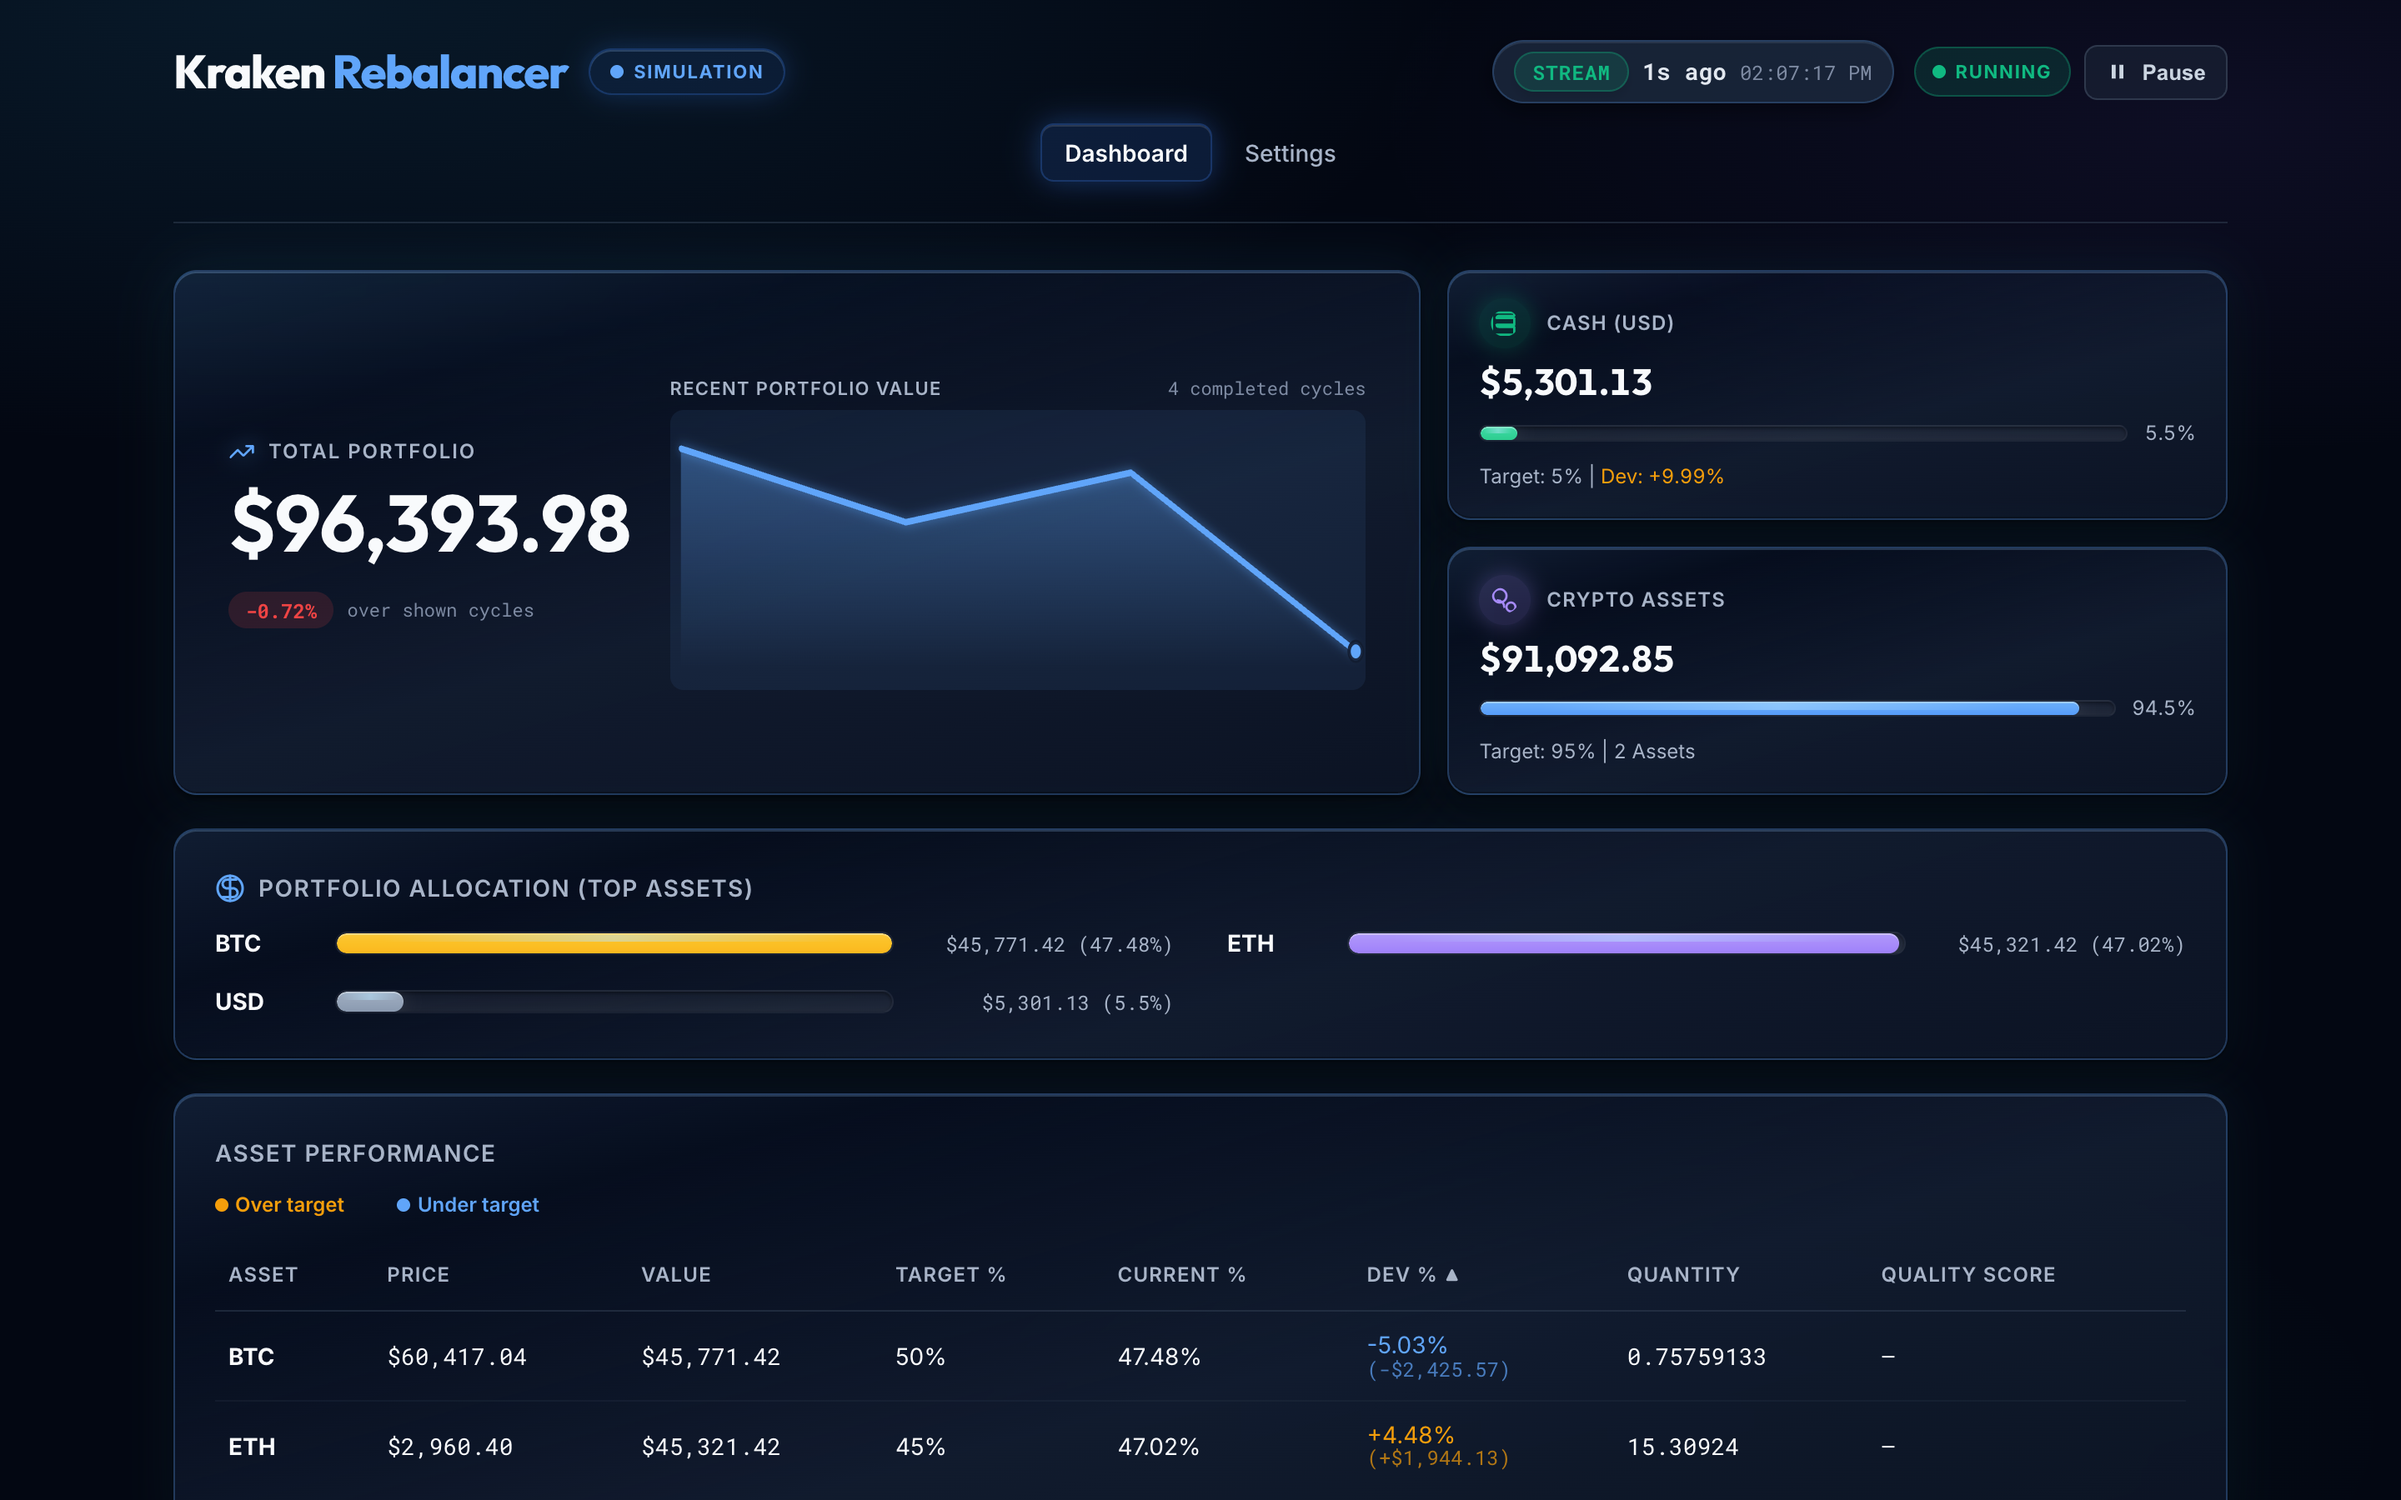
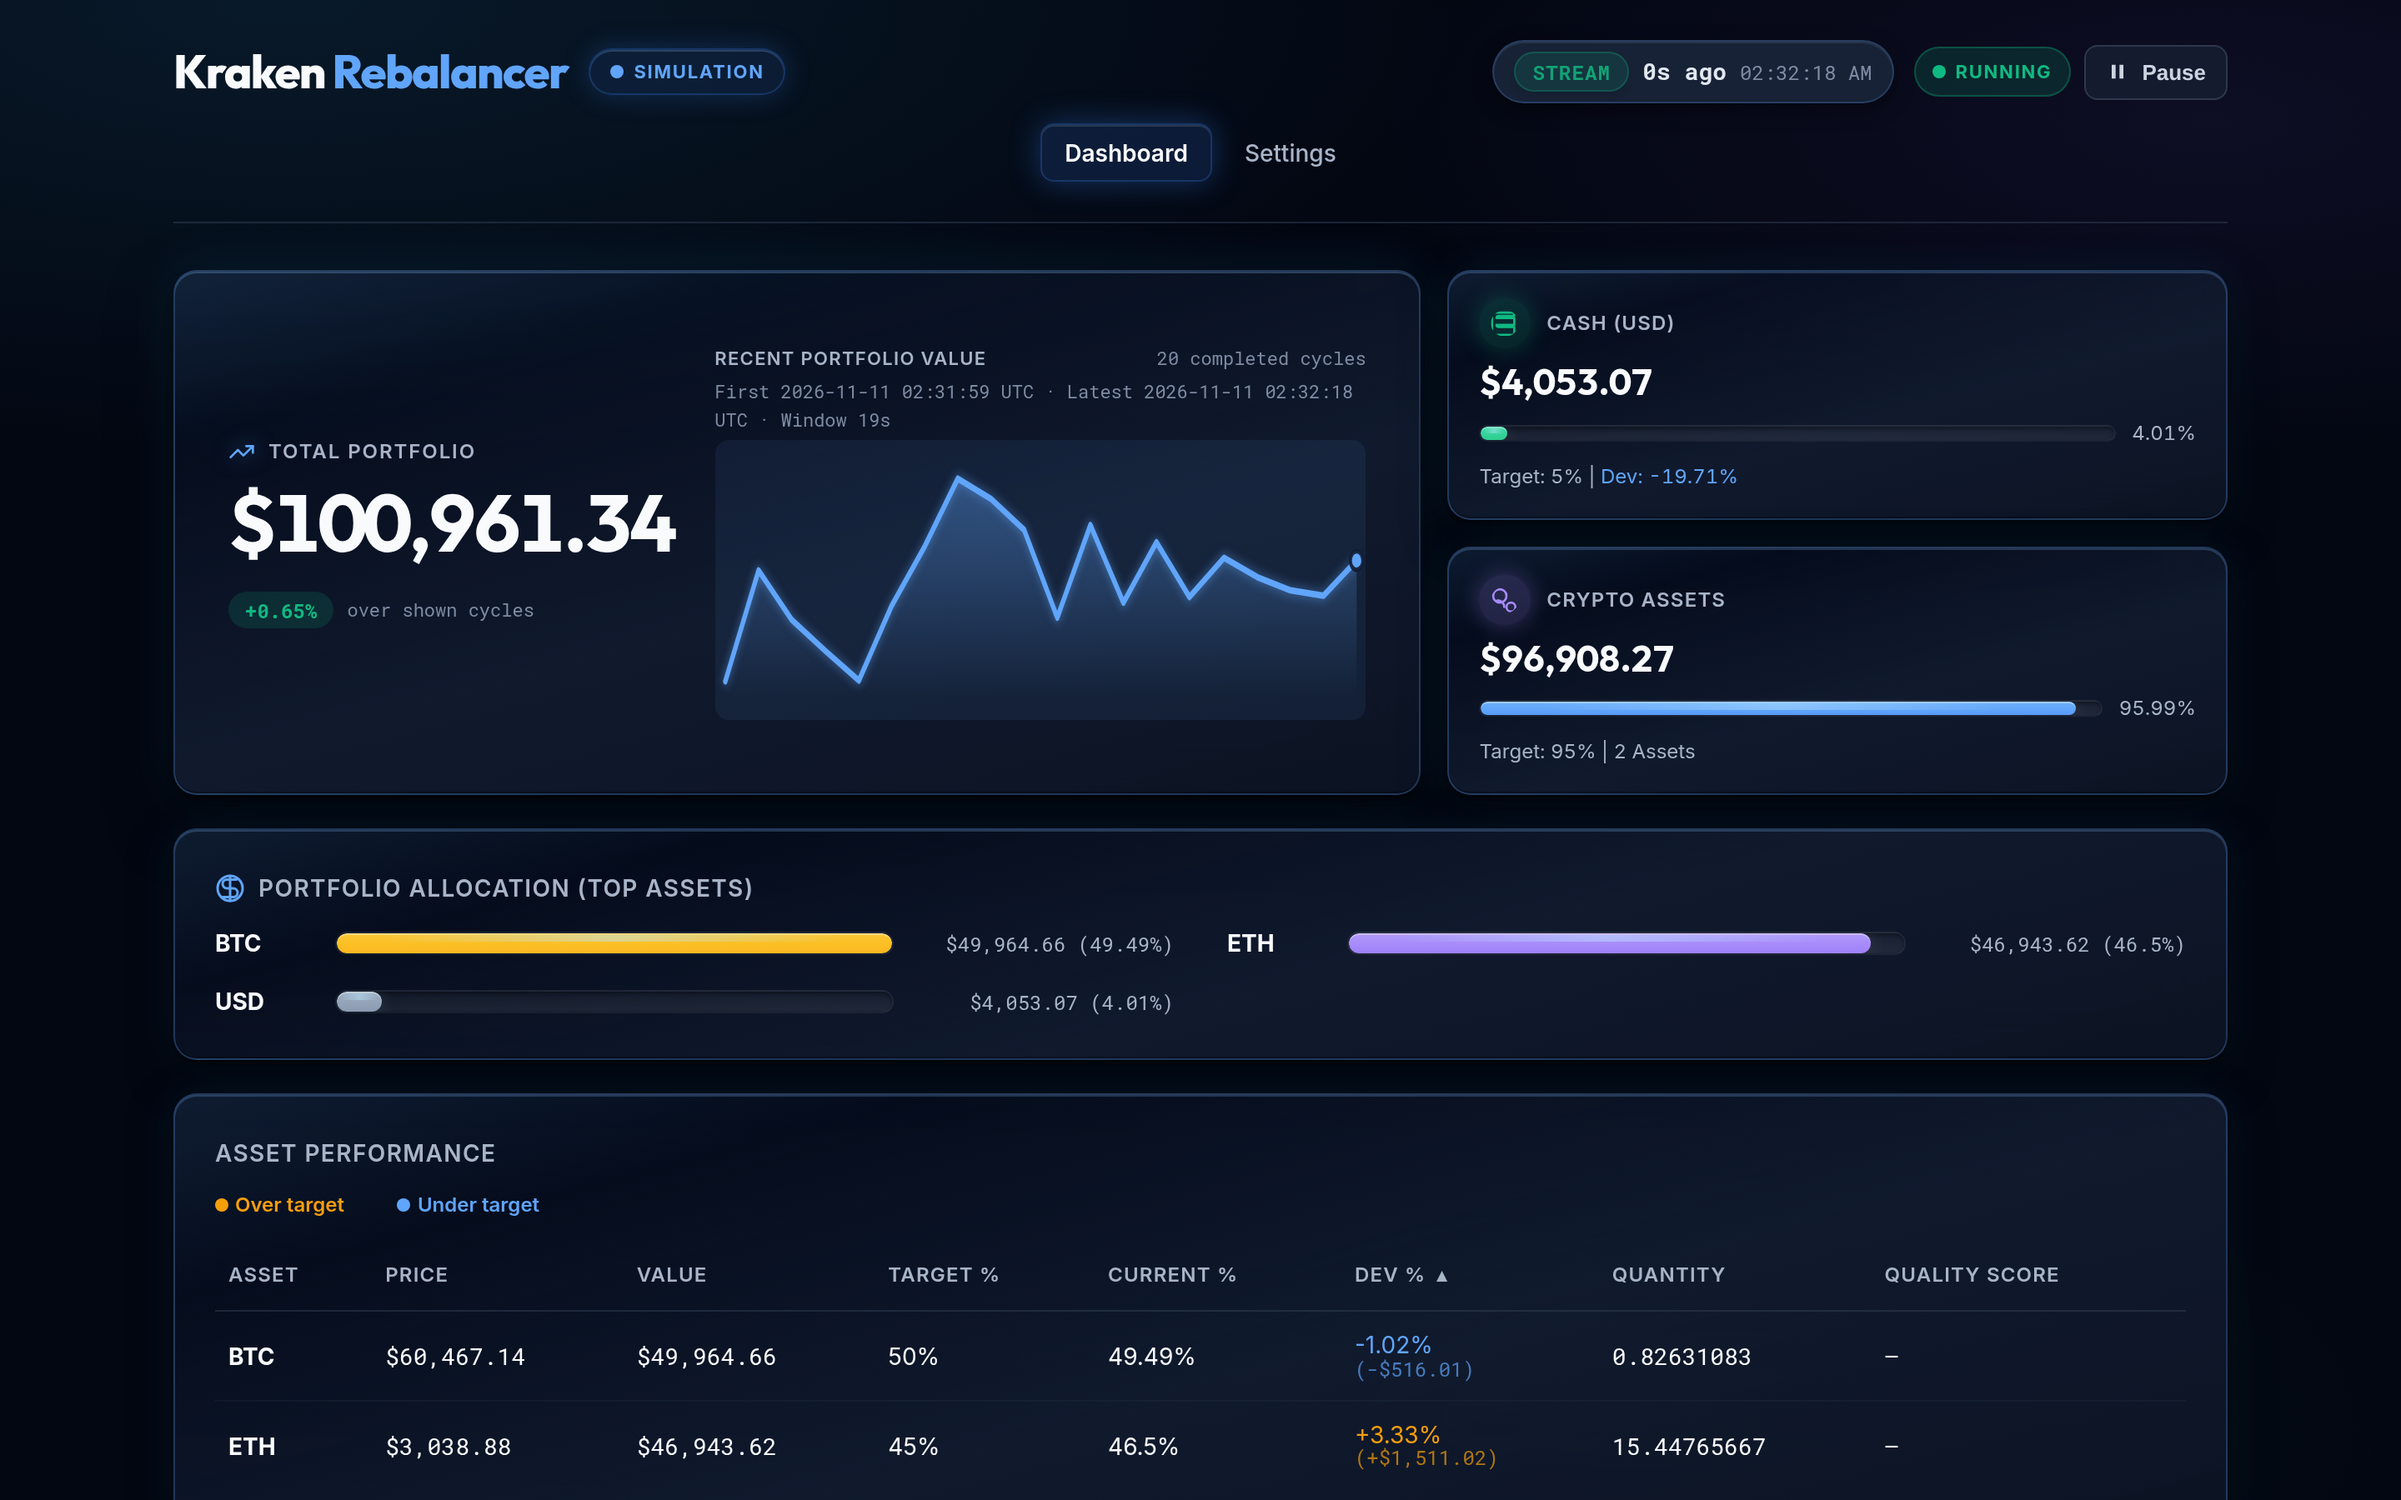
feat: show elapsed time in the portfolio trend

diff --git a/backend/src/main/kotlin/com/gemini/krakenbot/view/component/OverviewGridComponent.kt b/backend/src/main/kotlin/com/gemini/krakenbot/view/component/OverviewGridComponent.kt
@@ -18,6 +18,9 @@ import kotlinx.html.style
 import kotlinx.html.unsafe
 import java.math.BigDecimal
 import java.math.RoundingMode
+import java.time.Duration
+import java.time.ZoneOffset
+import java.time.format.DateTimeFormatter
 import java.util.Locale
 
 class OverviewGridComponent {
@@ -89,6 +92,19 @@ class OverviewGridComponent {
                     +"${recentSnapshots.size}$suffix"
                 }
             }
+            if (recentSnapshots.size >= 2) {
+                val first = recentSnapshots.first().timestamp
+                val latest = recentSnapshots.last().timestamp
+                val start = recentSnapshots.minOf { it.timestamp }
+                val end = recentSnapshots.maxOf { it.timestamp }
+                div(CssClass.Hero.TrendSummary) {
+                    +(
+                        "${ViewText.DASHBOARD_TREND_FIRST} ${TREND_TIME_FORMAT.format(first)} · " +
+                            "${ViewText.DASHBOARD_TREND_LATEST} ${TREND_TIME_FORMAT.format(latest)} · " +
+                            "${ViewText.DASHBOARD_TREND_WINDOW} ${formatElapsed(Duration.between(start, end))}"
+                        )
+                }
+            }
             if (recentSnapshots.size < 2) {
                 div(CssClass.Hero.TrendEmpty) { +ViewText.DASHBOARD_TREND_COLLECTING }
             } else {
@@ -113,10 +129,19 @@ class OverviewGridComponent {
         val yMinimum = minimum.subtract(padding)
         val yMaximum = maximum.add(padding)
         val yRange = yMaximum.subtract(yMinimum)
+        val start = samples.minOf { it.timestamp }
+        val end = samples.maxOf { it.timestamp }
+        val duration = elapsedSeconds(Duration.between(start, end))
         val points =
-            values.mapIndexed { index, value ->
+            samples.map { sample ->
+                val value = sample.totalValueUSD
                 val x =
-                    PLOT_LEFT + index.toDouble() / (values.lastIndex) * (PLOT_RIGHT - PLOT_LEFT)
+                    if (duration == 0.0) {
+                        (PLOT_LEFT + PLOT_RIGHT) / 2
+                    } else {
+                        val ratio = elapsedSeconds(Duration.between(start, sample.timestamp)) / duration
+                        PLOT_LEFT + ratio * (PLOT_RIGHT - PLOT_LEFT)
+                    }
                 val valueRatio =
                     value.subtract(yMinimum).divide(yRange, COORDINATE_SCALE, RoundingMode.HALF_UP).toDouble()
                 val y = PLOT_BOTTOM - valueRatio * (PLOT_BOTTOM - PLOT_TOP)
@@ -124,8 +149,8 @@ class OverviewGridComponent {
             }
         val areaPoints =
             points.joinToString(" ") +
-                " ${formatCoordinate(PLOT_RIGHT)},${formatCoordinate(PLOT_BOTTOM)}" +
-                " ${formatCoordinate(PLOT_LEFT)},${formatCoordinate(PLOT_BOTTOM)}"
+                " ${points.last().substringBefore(',')},${formatCoordinate(PLOT_BOTTOM)}" +
+                " ${points.first().substringBefore(',')},${formatCoordinate(PLOT_BOTTOM)}"
         val lastPoint = points.last().split(',')
         return """
             <svg class="${CssClass.Hero.TrendSvg.value}" viewBox="0 0 ${formatCoordinate(
@@ -147,6 +172,21 @@ class OverviewGridComponent {
     }
 
     private fun formatCoordinate(value: Double): String = String.format(Locale.US, "%.2f", value)
+
+    private fun elapsedSeconds(duration: Duration): Double = duration.seconds.toDouble() + duration.nano / 1e9
+
+    private fun formatElapsed(duration: Duration): String {
+        if (duration.isZero) return "0s"
+        if (duration.seconds == 0L) return "<1s"
+        var seconds = duration.seconds
+        val parts = mutableListOf<String>()
+        for ((unit, suffix) in listOf(86400L to "d", 3600L to "h", 60L to "m", 1L to "s")) {
+            val count = seconds / unit
+            if (count > 0) parts.add("$count$suffix")
+            seconds %= unit
+        }
+        return parts.joinToString(" ")
+    }
 
     private fun DIV.renderCashTile(
         latest: PortfolioSnapshot,
@@ -226,3 +266,6 @@ private const val TREND_FILL_GRADIENT_ID = "hero-trend-fill"
 private val TREND_PADDING_PERCENT = BigDecimal("0.08")
 private val FLAT_LINE_PADDING_PERCENT = BigDecimal("0.005")
 private val MINIMUM_TREND_PADDING = BigDecimal("1.00")
+
+private val TREND_TIME_FORMAT = DateTimeFormatter.ofPattern("yyyy-MM-dd HH:mm:ss 'UTC'", Locale.US)
+    .withZone(ZoneOffset.UTC)

diff --git a/backend/src/test/kotlin/com/gemini/krakenbot/view/component/OverviewGridComponentTest.kt b/backend/src/test/kotlin/com/gemini/krakenbot/view/component/OverviewGridComponentTest.kt
@@ -10,6 +10,7 @@ import kotlinx.html.div
 import kotlinx.html.stream.createHTML
 import java.math.BigDecimal
 import java.time.Instant
+import java.util.Locale
 
 @Suppress("unused")
 class OverviewGridComponentTest : StringSpec() {
@@ -35,6 +36,38 @@ class OverviewGridComponentTest : StringSpec() {
             twoSamples shouldContain "over shown cycles"
             twoSamples shouldNotContain "this run"
             twoSamples shouldNotContain "aria-label"
+        }
+
+        "trend spacing and window reflect elapsed time under a non-English locale" {
+            val start = Instant.parse("2026-10-11T12:00:00Z")
+            val samples = listOf(0L, 10L, 100L).map {
+                TestFixtures.emptySnapshot(start.plusSeconds(it), BigDecimal("100.00"))
+            }
+            val previous = Locale.getDefault()
+            val html = try {
+                Locale.setDefault(Locale.GERMANY)
+                createHTML().div { OverviewGridComponent().render(samples.last(), samples) }
+            } finally {
+                Locale.setDefault(previous)
+            }
+
+            html shouldContain "points=\"8.00,75.00 58.40,75.00 512.00,75.00\""
+            html shouldContain "First 2026-10-11 12:00:00 UTC"
+            html shouldContain "Latest 2026-10-11 12:01:40 UTC"
+            html shouldContain "Window 1m 40s"
+        }
+
+        "equal timestamps produce a centered trend and zero window" {
+            val timestamp = Instant.parse("2026-10-11T12:00:00Z")
+            val samples = listOf("100.00", "101.00").map {
+                TestFixtures.emptySnapshot(timestamp, BigDecimal(it))
+            }
+            val html = createHTML().div { OverviewGridComponent().render(samples.last(), samples) }
+
+            html shouldContain "points=\"260.00,"
+            html shouldContain " 260.00,"
+            html shouldContain "Window 0s"
+            html shouldNotContain "NaN"
         }
 
         "dashboard hero chart displays more than the previous 24-cycle limit" {

diff --git a/backend/src/main/kotlin/com/gemini/krakenbot/view/css/HeroStyles.kt b/backend/src/main/kotlin/com/gemini/krakenbot/view/css/HeroStyles.kt
@@ -89,7 +89,6 @@ object HeroStyles {
             fontFamily = CssTheme.fontMono
             fontSize = 0.6875.rem
             color = CssTheme.colorTextMuted
-            whiteSpaceRaw("nowrap")
         }
 
         CssClass.Hero.TrendChart.querySelector {

diff --git a/docs/USER_GUIDE.md b/docs/USER_GUIDE.md
@@ -107,8 +107,9 @@ value with a trailing chart plus two tiles:
 | **Cash (USD)** (tile) | Fiat balance with a progress bar for its current share, the configured USD target, and deviation. |
 | **Crypto Assets** (tile) | Combined crypto value with a progress bar for its share, its target %, and how many crypto symbols you hold. |
 
-The trend uses only in-memory snapshots from the current application run. It
-appears after the second completed cycle, shows the cycle count and sample
+The trend spaces points by their snapshot times and shows the first and latest
+timestamps in UTC and the observed window. It uses only in-memory snapshots
+from the current application run. It appears after the second completed cycle, shows the cycle count and sample
 times, and resets when the application restarts. The application does not
 persist portfolio snapshots between runs.
 

diff --git a/README.md b/README.md
@@ -258,7 +258,7 @@ Earlier Phase 5 updates integrated a reactive configuration loop (`watchConfigCh
 
 ### Live Dashboard
 
-- Shows the latest completed cycle and a trend of up to 2,880 same-source cycles
+- Shows the latest completed cycle and a time-spaced trend of up to 2,880 same-source cycles
   captured in memory during this application run (about 24 hours of configured
   delay at 30 seconds between cycles, plus cycle execution time); the trend
   clears on restart and when simulation mode or credential scope changes.

diff --git a/CHANGELOG.md b/CHANGELOG.md
@@ -6,6 +6,12 @@ The format is based on [Keep a Changelog](https://keepachangelog.com/en/1.0.0/),
 and this project adheres
 to [Semantic Versioning](https://semver.org/spec/v2.0.0.html).
 
+## [6.21.0] - 2026-11-10
+
+### Changed
+
+- Space Dashboard trend samples by elapsed time and show the observed UTC window.
+
 ## [6.20.18] - 2026-11-03
 
 ### Fixed
